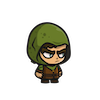
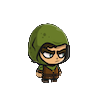
Added Colisions game over victory about

Changed region(s): [[0.24, 0.21, 0.72, 0.84]]

diff --git a/code/Level.py b/code/Level.py
@@ -43,7 +43,7 @@ class Level:
                     sys.exit()
             if self.frame_count >= BOSS_SPAWN_TIME and not self.boss_spawned:
                 self.entity_list.append(EntityFactory.get_entity('EnemyBoss'))
-                pygame.mixer_music.load(f'./asset/Boss.wav')
+                pygame.mixer.music.load(f'./asset/Boss.wav')
                 pygame.mixer_music.set_volume(0.3)
                 pygame.mixer_music.play(-1)
                 self.boss_spawned = True
@@ -53,50 +53,52 @@ class Level:
                     enemy_type = random.choice(['Enemy1', 'Enemy2'])
                     self.entity_list.append(EntityFactory.get_entity(enemy_type))
                     self.spawn_timer = 0
+            # ── update & draw all entities ───────────────────────────
+            shots_to_add: list[Entity] = []
             for ent in self.entity_list:
                 self.window.blit(source=ent.surf, dest=ent.rect)
                 ent.move()
                 ent.update()
+
+                # player wants to shoot
+                if isinstance(ent, Player) and ent.pending_shot:
+                    shot_pos = (ent.rect.right, ent.rect.centery)
+                    shots_to_add.append(EntityFactory.get_entity('PlayerShot', shot_pos))
+
+                # enemy wants to shoot
+                if isinstance(ent, Enemy) and ent.pending_shot:
+                    shot_pos = (ent.rect.left, ent.rect.centery)
+                    shots_to_add.append(EntityFactory.get_entity('EnemyShot', shot_pos))
+
+            self.entity_list.extend(shots_to_add)
+
+            # ── collision detection ──────────────────────────────────
+            self._handle_collisions()
+
+            # ── cull dead or off-screen entities ────────────────────
             self.entity_list = [
                 ent for ent in self.entity_list
-                if not (isinstance(ent, Entity) and ent.rect.right < 0)
+                if ent.health > 0 and ent.rect.right > 0
             ]
-            if not self.boss_spawned:
-                seconds_left = max(0, (BOSS_SPAWN_TIME - self.frame_count) // 30)
-                self.level_text(25, f'Boss in: {seconds_left}s',
-                                text_color=COLOR_PURPLE_SELECTED, text_pos=(800, 20))
-                # ── update & draw all entities ───────────────────────────
-                shots_to_add: list[Entity] = []
-                for ent in self.entity_list:
-                    self.window.blit(source=ent.surf, dest=ent.rect)
-                    ent.move()
-                    ent.update()
 
-                    # player wants to shoot
-                    if isinstance(ent, Player) and ent.pending_shot:
-                        shot_pos = (ent.rect.right, ent.rect.centery)
-                        shots_to_add.append(EntityFactory.get_entity('PlayerShot', shot_pos))
+            # ── HUD ──────────────────────────────────────────────────
+            self._draw_hud()
 
-                    # enemy wants to shoot
-                    if isinstance(ent, Enemy) and ent.pending_shot:
-                        shot_pos = (ent.rect.left, ent.rect.centery)
-                        shots_to_add.append(EntityFactory.get_entity('EnemyShot', shot_pos))
+            # ── check game over ───────────────────────────────────────
+            player = next((e for e in self.entity_list if isinstance(e, Player)), None)
+            if player is None or player.health <= 0:
+                pygame.mixer.music.stop()
+                return 'game_over'
 
-                self.entity_list.extend(shots_to_add)
+            # ── check victory (boss defeated) ─────────────────────────
+            if self.boss_spawned:
+                boss = next((e for e in self.entity_list
+                             if isinstance(e, Enemy) and 'Boss' in e.name), None)
+                if boss is None:
+                    pygame.mixer.music.stop()
+                    return 'victory'
 
-                # ── collision detection ──────────────────────────────────
-                self._handle_collisions()
-
-                # ── cull dead or off-screen entities ────────────────────
-                self.entity_list = [
-                    ent for ent in self.entity_list
-                    if ent.health > 0 and ent.rect.right > 0 and ent.rect.left < WIN_WIDTH
-                ]
-
-                # ── HUD ──────────────────────────────────────────────────
-                self._draw_hud()
-
-                pygame.display.flip()
+            pygame.display.flip()
 
     def _handle_collisions(self):
         players = [e for e in self.entity_list if isinstance(e, Player)]
@@ -106,7 +108,7 @@ class Level:
 
         # PlayerShot hits Enemy
         for shot in player_shots:
-             for enemy in enemies:
+            for enemy in enemies:
                 if shot.rect.colliderect(enemy.rect):
                     enemy.health -= ENTITY_DAMAGE['PlayerShot']
                     shot.health = 0  # destroy shot
@@ -145,27 +147,24 @@ class Level:
                     self.window.blit(empty, (10 + i * 38, 10))
 
             # numeric HP under hearts
-            self.level_text(16, f'HP: {max(0, player.health)}', COLOR_WHITE, (10, 48))
+            self.level_text(20, f'HP: {max(0, player.health)}', COLOR_PURPLE_SELECTED, (10, 40))
 
         # ── boss countdown or warning ────────────────────────────────
         if not self.boss_spawned:
             seconds_left = max(0, (BOSS_SPAWN_TIME - self.frame_count) // 30)
-            self.level_text(18, f'Boss in: {seconds_left}s', COLOR_WHITE,(WIN_WIDTH - 160, 10))
+            self.level_text(20, f'Boss in: {seconds_left}s', COLOR_PURPLE_SELECTED, (WIN_WIDTH - 160, 10))
         else:
-            self.level_text(18, '⚠ BOSS', COLOR_RED, (WIN_WIDTH - 160, 10))
+        #     self.level_text(18, 'BOSS', COLOR_PURPLE_SELECTED, (WIN_WIDTH - 160, 10))
 
-            # boss health bar
             boss = next((e for e in self.entity_list if isinstance(e, Enemy)
                          and 'Boss' in e.name), None)
             if boss:
                 bar_x, bar_y, bar_w, bar_h = WIN_WIDTH // 4, 20, WIN_WIDTH // 2, 16
-                ratio = max(0, boss.health / 200)
+                ratio = max(0, boss.health / 100)
                 pygame.draw.rect(self.window, (80, 0, 0), (bar_x, bar_y, bar_w, bar_h))
                 pygame.draw.rect(self.window, COLOR_RED, (bar_x, bar_y, int(bar_w * ratio), bar_h))
                 pygame.draw.rect(self.window, COLOR_WHITE, (bar_x, bar_y, bar_w, bar_h), 2)
-                self.level_text(14, 'BOSS', COLOR_WHITE, (bar_x + bar_w // 2 - 16, bar_y - 18))
-
-            pygame.display.flip()
+                self.level_text(30, 'BOSS', COLOR_PURPLE_SELECTED, (bar_x + bar_w // 2 - 16, bar_y - 18))
 
     def level_text(self, text_size: int, text: str, text_color: tuple, text_pos: tuple):
         text_font: Font = pygame.font.SysFont(name='./asset/DarkForestFont.ttf', size=text_size)

diff --git a/code/Game.py b/code/Game.py
@@ -1,34 +1,44 @@
 #!/usr/bin/python
 # -*- coding: utf-8 -*-
 import sys
-
 import pygame
-
 from code.Const import WIN_WIDTH, WIN_HEIGHT, MENU_OPTION
 from code.Level import Level
 from code.Menu import Menu
+from code.GameOver import GameOver
+from code.Victory import Victory
+from code.About import About
 
 
 class Game:
-
     def __init__(self):
         pygame.init()
         self.window = pygame.display.set_mode(size=(WIN_WIDTH, WIN_HEIGHT))
+        pygame.display.set_caption('Dark Forest')
 
     def run(self):
         while True:
             menu = Menu(self.window)
             menu_return = menu.run()
 
-            if menu_return == MENU_OPTION[0]:  # PLAY OPTION SELECTED
+            if menu_return == MENU_OPTION[0]:  # PLAY
                 level = Level(self.window, 'Level1', menu_return)
                 level_return = level.run()
 
-            # elif menu_return == MENU_OPTION[1]:
+                if level_return == 'game_over':
+                    GameOver(self.window).run()  # shows game over, returns 'menu'
 
-            elif menu_return == MENU_OPTION[2]:  # QUIT OPTION SELECTED
+                elif level_return == 'victory':
+                    Victory(self.window).run()  # shows victory, returns 'menu'
+                # both return 'menu' → loop back to menu automatically
+
+            elif menu_return == MENU_OPTION[1]:  # ABOUT
+                About(self.window).run()
+
+            elif menu_return == MENU_OPTION[2]:  # QUIT
                 pygame.quit()
                 quit()
+
             else:
                 pygame.quit()
                 sys.exit()

diff --git a/code/Const.py b/code/Const.py
@@ -7,6 +7,8 @@ COLOR_PURPLE_DARK = 47, 18, 64
 COLOR_PURPLE_SELECTED = 140, 66, 184
 COLOR_WHITE = (255, 255, 255)
 COLOR_RED = (255, 0, 0)
+COLOR_GREEN = (0, 255, 0)
+COLOR_BLACK = (0, 0, 0)
 
 # E
 ENTITY_DAMAGE = {
@@ -21,9 +23,9 @@ ENTITY_DAMAGE = {
 ENTITY_HEALTH = {
     'Player': 100,
     'PlayerShot': 1,
-    'Enemy1': 30,
+    'Enemy1': 20,
     'Enemy2': 20,
-    'EnemyBoss': 200,
+    'EnemyBoss': 100,
     'EnemyShot': 1
 }
 
@@ -55,7 +57,7 @@ MENU_OPTION = ('PLAY',
 
 
 # P
-PLAYER_SHOT_COOLDOWN = 15
+PLAYER_SHOT_COOLDOWN = 10
 
 # W
 WIN_WIDTH = 960

diff --git a/code/Menu.py b/code/Menu.py
@@ -4,7 +4,7 @@ import pygame.image
 from pygame import Surface, Rect
 from pygame.font import Font
 
-from code.Const import COLOR_PURPLE_DARK, MENU_OPTION, COLOR_PURPLE_SELECTED, COLOR_PURPLE
+from code.Const import COLOR_PURPLE_DARK, MENU_OPTION, COLOR_PURPLE_SELECTED, COLOR_PURPLE, COLOR_BLACK
 
 
 class Menu:
@@ -21,6 +21,8 @@ class Menu:
             self.window.blit(source=self.surf, dest=self.rect)
             self.menu_text(270, "Dark Forest", text_color=COLOR_PURPLE,
                            text_center_pos=(500, 120))
+            self.menu_text(30, 'Arrow keys to move  |  UP to jump', COLOR_BLACK, (180, 470))
+            self.menu_text(30, 'SPACE to shoot  |  ENTER to select', COLOR_BLACK, (180, 500))
 
             for i in range(len(MENU_OPTION)):
                 if i == menu_option:

diff --git a/code/Player.py b/code/Player.py
@@ -27,7 +27,7 @@ class Player(Entity):
             self.shoot_cooldown -= 1
         if pressed_keys[pygame.K_SPACE] and self.shoot_cooldown == 0:
             self.pending_shot = True
-            self.is_on_ground = PLAYER_SHOT_COOLDOWN
+            self.shoot_cooldown = PLAYER_SHOT_COOLDOWN
 
     def update(self):
         if not self.is_on_ground:

diff --git a/code/EntityFactory.py b/code/EntityFactory.py
@@ -3,6 +3,7 @@
 from code.Enemy import Enemy
 from code.Background import Background
 from code.Const import WIN_WIDTH, ENTITY_FLOOR
+from code.EnemyShot import EnemyShot
 from code.Player import Player
 from code.PlayerShot import PlayerShot
 